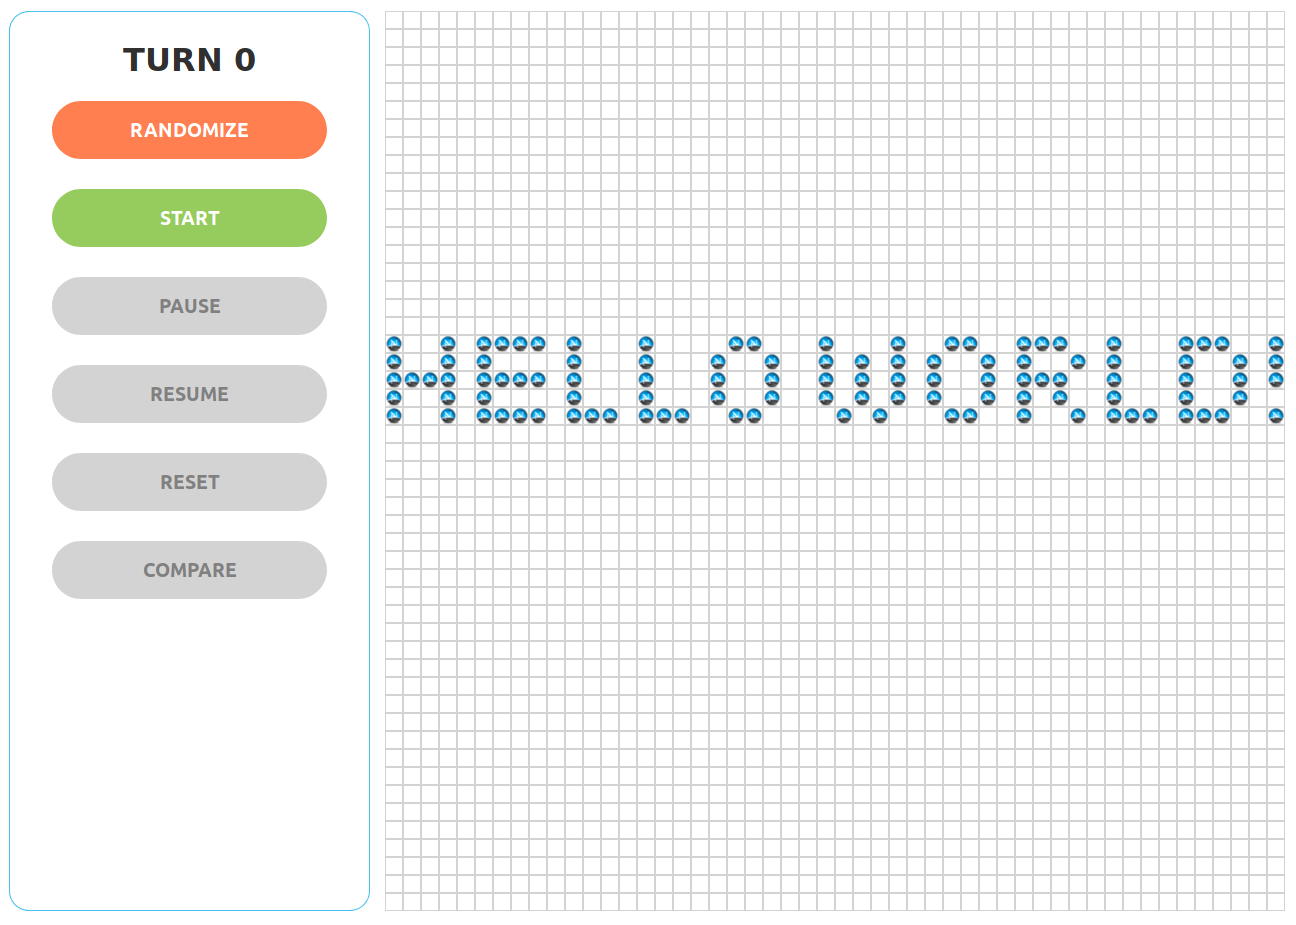
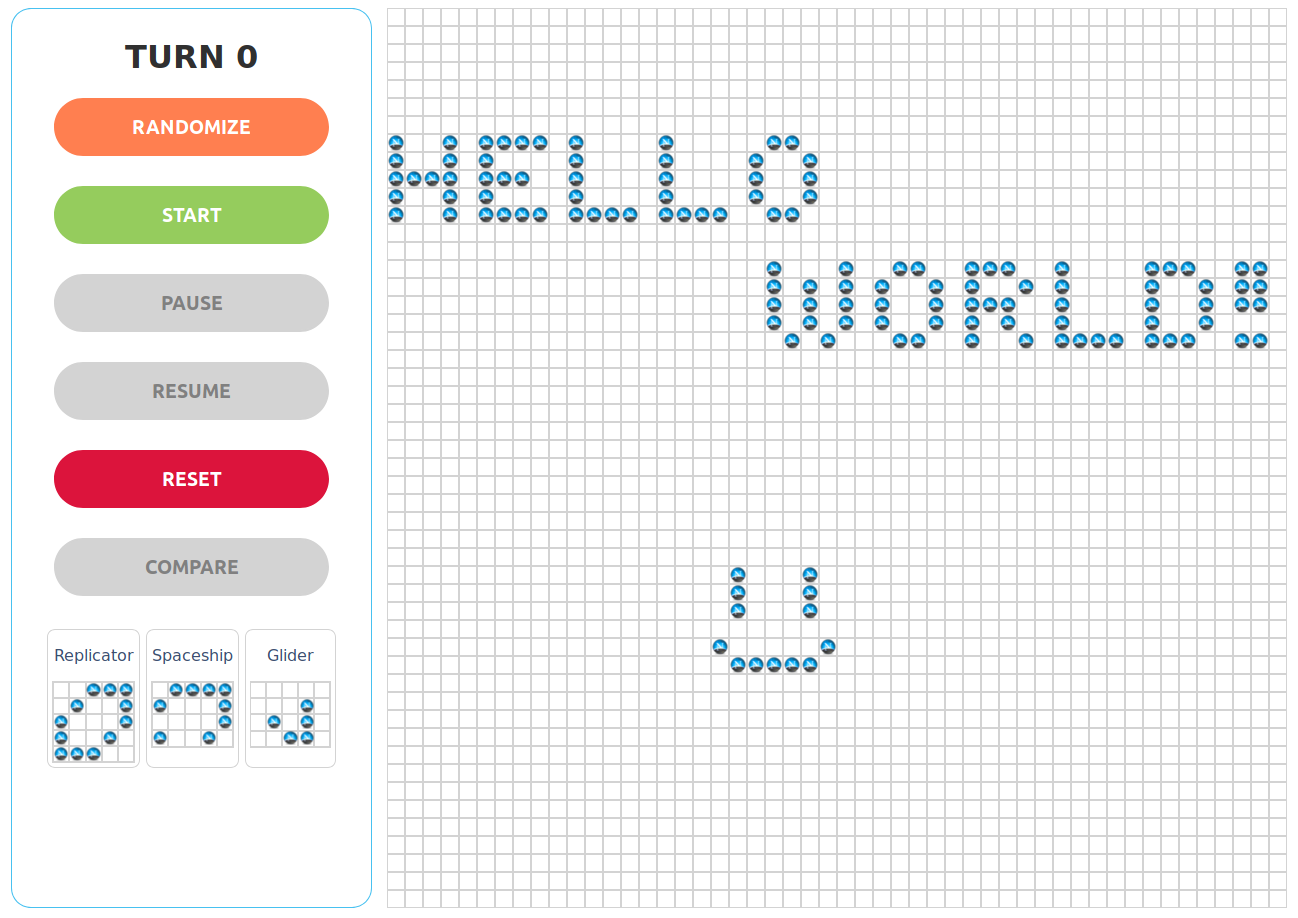
Update images and add extra image to README

diff --git a/README.md b/README.md
@@ -18,6 +18,10 @@ _Create your own patterns:_
 
 ![Image of menu and board with hello world!](https://raw.githubusercontent.com/JamesScript7/the-best-game-in-the-world/master/public/images/rules/main-1.png)
 
+_Or use provided templates:_
+
+![Image of menu and board with templates](https://raw.githubusercontent.com/JamesScript7/the-best-game-in-the-world/master/public/images/rules/main-4.png)
+
 _Create a randomized pattern that populates 23-27% of the board:_
 
 ![Image of menu and randomized board](https://raw.githubusercontent.com/JamesScript7/the-best-game-in-the-world/master/public/images/rules/main-2.png)
